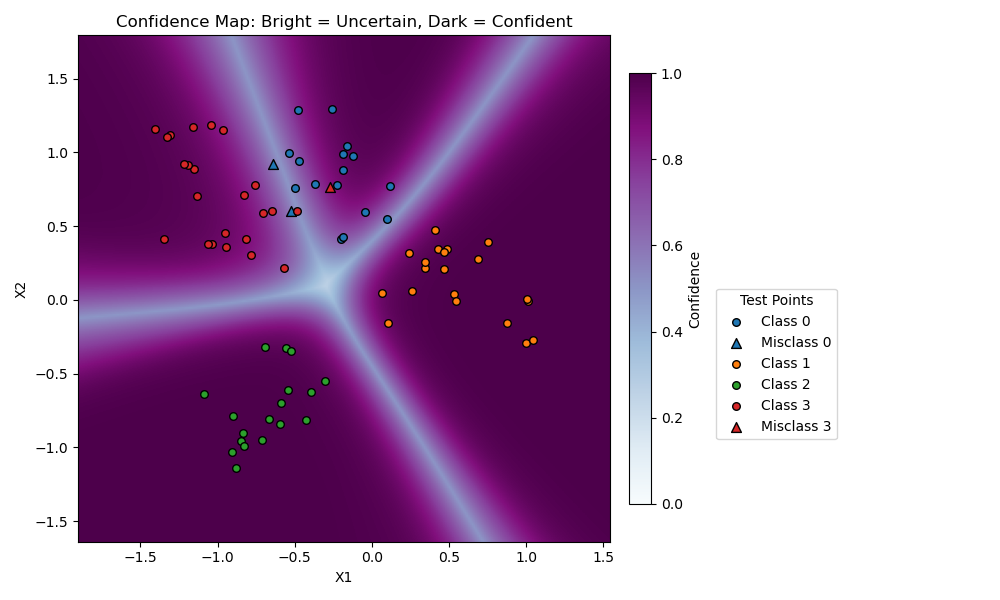
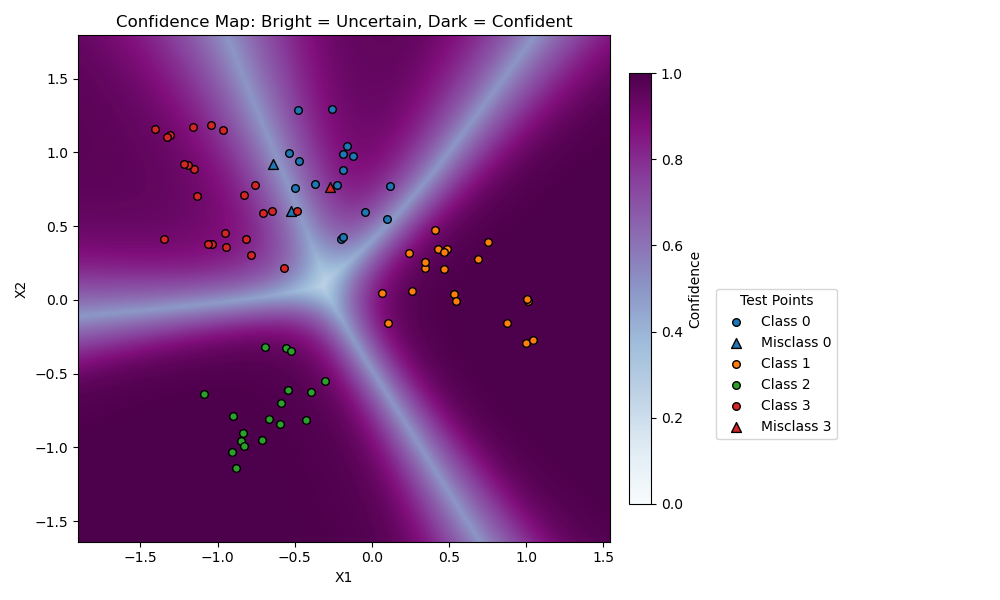
added most of the metrics, missing OOD AUROC

diff --git a/main.py b/main.py
@@ -8,7 +8,7 @@ from torch.utils.data import DataLoader
 import numpy as np
 from plots import plot_2D_decision_boundary_MAP, plot_2D_decision_boundary_confidence, plot_2D_decision_boundary_entropy, plot_model, plot_bayesian_model_samples, plot_bayesian_model_predictions
 import os
-from utils import sample_from_posterior, save_metrics
+from utils import sample_from_posterior, save_metrics_classification, save_metrics_regression
 
 SINE_MODEL_PATH="results/models/sine_net.pth"
 MNIST_MODEL_PATH="results/models/mnist_fc.pth"
@@ -32,7 +32,7 @@ def lla_inference(model, x_train, y_train):
     y_test_pred = model(x_test).detach().numpy()  # MAP model predictions
     mean_pred, var_pred = sinemodel.bayesian_prediction(model, theta_samples, x_test)
 
-    metrics = save_metrics(y_test_pred, mean_pred, var_pred, y_test_true, "results/metrics/sine_lla_metrics.json")
+    metrics = save_metrics_regression(y_test_pred, mean_pred, var_pred, y_test_true, "results/metrics/sine_lla_metrics.json")
     rmse_map = metrics["MAP"]["RMSE"]
     rmse_bayesian = metrics["Bayesian"]["RMSE"]
 
@@ -62,10 +62,14 @@ def lla_inference_2D_classifier(model, train_dataset, test_dataset):
     
     x_test = test_dataset[:][0]
     y_test_true = test_dataset[:][1]
-    mean_pred, var_pred = fcmodel.bayesian_prediction(model, theta_samples, x_test)
+    y_test_pred_map = torch.nn.functional.softmax(model(x_test), dim=1).detach().numpy()
+    mean_probs_pred, var_pred = fcmodel.bayesian_prediction(model, theta_samples, x_test)
+    y_test_pred = np.argmax(mean_probs_pred, axis=1)
+    
+    metrics = save_metrics_classification(y_test_pred_map, y_test_pred, mean_probs_pred, var_pred, y_test_true.detach().numpy(), "results/metrics/2Dclassifier_lla_metrics.json")
 
-    plot_2D_decision_boundary_entropy(model, theta_samples, x_test, y_test_true, mean_pred)
-    plot_2D_decision_boundary_confidence(model, theta_samples, x_test, y_test_true, mean_pred)
+    plot_2D_decision_boundary_entropy(model, theta_samples, x_test, y_test_true, mean_probs_pred)
+    plot_2D_decision_boundary_confidence(model, theta_samples, x_test, y_test_true, mean_probs_pred)
 
     # Restore original MAP parameters
     torch.nn.utils.vector_to_parameters(original_params, model.parameters())
@@ -90,7 +94,7 @@ def projected_posterior_inference(model, x_train, y_train):
     y_test_pred = model(x_test).detach().numpy()  # MAP model predictions
     mean_pred, var_pred = sinemodel.bayesian_prediction(model, theta_samples, x_test)
 
-    metrics = save_metrics(y_test_pred, mean_pred, var_pred, y_test_true, "results/metrics/sine_projected_posterior_metrics.json")
+    metrics = save_metrics_regression(y_test_pred, mean_pred, var_pred, y_test_true, "results/metrics/sine_projected_posterior_metrics.json")
     rmse_map = metrics["MAP"]["RMSE"]
     rmse_bayesian = metrics["Bayesian"]["RMSE"]
 
@@ -120,10 +124,14 @@ def projected_posterior_inference_2D_classifier(model, train_dataset, test_datas
     
     x_test = test_dataset[:][0]
     y_test_true = test_dataset[:][1]
-    mean_pred, var_pred = fcmodel.bayesian_prediction(model, theta_samples, x_test)
+    y_test_pred_map = torch.nn.functional.softmax(model(x_test), dim=1).detach().numpy()
+    mean_probs_pred, var_pred = fcmodel.bayesian_prediction(model, theta_samples, x_test)
+    y_test_pred = np.argmax(mean_probs_pred, axis=1)
+    
+    metrics = save_metrics_classification(y_test_pred_map, y_test_pred, mean_probs_pred, var_pred, y_test_true.detach().numpy(), "results/metrics/2Dclassifier_proj_metrics.json")
 
-    plot_2D_decision_boundary_entropy(model, theta_samples, x_test, y_test_true, mean_pred)
-    plot_2D_decision_boundary_confidence(model, theta_samples, x_test, y_test_true, mean_pred)
+    plot_2D_decision_boundary_entropy(model, theta_samples, x_test, y_test_true, mean_probs_pred)
+    plot_2D_decision_boundary_confidence(model, theta_samples, x_test, y_test_true, mean_probs_pred)
 
     # Restore original MAP parameters
     torch.nn.utils.vector_to_parameters(original_params, model.parameters())
@@ -148,7 +156,7 @@ def loss_posterior_inference(model, x_train, y_train):
     y_test_pred = model(x_test).detach().numpy()  # MAP model predictions
     mean_pred, var_pred = sinemodel.bayesian_prediction(model, theta_samples, x_test)
 
-    metrics = save_metrics(y_test_pred, mean_pred, var_pred, y_test_true, "results/metrics/sine_loss_posterior_metrics.json")
+    metrics = save_metrics_regression(y_test_pred, mean_pred, var_pred, y_test_true, "results/metrics/sine_loss_posterior_metrics.json")
     rmse_map = metrics["MAP"]["RMSE"]
     rmse_bayesian = metrics["Bayesian"]["RMSE"]
 
@@ -191,8 +199,8 @@ def run_2d_classification_experiment():
     model.eval()
     #plot_2D_decision_boundary_MAP(model, test_dataset)
 
-    #lla_inference_2D_classifier(model, train_dataset, test_dataset)
-    projected_posterior_inference_2D_classifier(model, train_dataset, test_dataset)
+    lla_inference_2D_classifier(model, train_dataset, test_dataset)
+    #projected_posterior_inference_2D_classifier(model, train_dataset, test_dataset)
 
 
 if __name__ == "__main__":

diff --git a/metrics.py b/metrics.py
@@ -1,11 +1,15 @@
 import numpy as np
 from scipy.stats import norm
-from sklearn.metrics import root_mean_squared_error
+from sklearn.metrics import root_mean_squared_error, roc_auc_score
 
 def compute_rmse(y_true, y_pred):
     """Compute Root Mean Squared Error (RMSE) using sklearn."""
     return root_mean_squared_error(y_true, y_pred)
 
+def compute_accuracy(y_true, y_pred_probs):
+    """Compute classification accuracy."""
+    y_pred = np.argmax(y_pred_probs, axis=1)
+    return np.mean(y_true == y_pred)
 
 def compute_regression_nll(mu, sigma, y_true, eps=1e-6):
     """
@@ -23,6 +27,11 @@ def compute_regression_nll(mu, sigma, y_true, eps=1e-6):
     sigma = np.clip(sigma, a_min=eps, a_max=None)  # Avoid zero std
     nll = 0.5 * np.log(2 * np.pi * sigma**2) + ((y_true - mu) ** 2) / (2 * sigma**2)
     return np.mean(nll)
+
+def compute_classification_nll(y_true, y_pred_probs, eps=1e-8):
+    """NLL for classification with predicted probabilities"""
+    log_probs = np.log(np.clip(y_pred_probs[np.arange(len(y_true)), y_true], eps, 1.0))
+    return -np.mean(log_probs)
 
 
 def compute_sharpness(sigma):
@@ -94,3 +103,99 @@ def compute_regression_ece(mu, sigma, y_true, alphas=None):
     ece /= len(alphas)
     return ece, list(zip(alphas, coverage_list))
 
+def compute_classification_ece_mce(y_true, y_pred_probs, n_bins=15):
+    """
+    Compute both ECE and MCE (Expected and Maximum Calibration Error).
+    
+    Returns:
+    - ece: float
+    - mce: float
+    """
+    confidences = np.max(y_pred_probs, axis=1)
+    predictions = np.argmax(y_pred_probs, axis=1)
+    accuracies = (predictions == y_true)
+    
+    bin_boundaries = np.linspace(0.0, 1.0, n_bins + 1)
+    ece = 0.0
+    mce = 0.0
+
+    for i in range(n_bins):
+        lower, upper = bin_boundaries[i], bin_boundaries[i + 1]
+        mask = (confidences > lower) & (confidences <= upper)
+        if np.any(mask):
+            bin_acc = np.mean(accuracies[mask])
+            bin_conf = np.mean(confidences[mask])
+            gap = abs(bin_conf - bin_acc)
+            ece += gap * np.sum(mask) / len(y_true)
+            mce = max(mce, gap)
+    
+    return ece, mce
+
+
+def compute_brier_score(y_true, y_pred_probs):
+    """
+    Compute Brier Score for multiclass classification.
+
+    Parameters:
+    - y_true: (N,) int array of true class indices
+    - y_pred_probs: (N, C) array of predicted class probabilities
+
+    Returns:
+    - brier: float, mean Brier score
+    """
+    N, C = y_pred_probs.shape
+    y_true_onehot = np.zeros_like(y_pred_probs)
+    y_true_onehot[np.arange(N), y_true] = 1
+    return np.mean(np.sum((y_pred_probs - y_true_onehot) ** 2, axis=1))
+
+def compute_predictive_entropy(y_pred_probs, eps=1e-8):
+    """
+    Compute predictive entropy for each sample.
+    
+    Parameters:
+    - y_pred_probs: (N, C) array of predicted class probabilities
+
+    Returns:
+    - entropies: (N,) array of entropy values per sample
+    """
+    clipped_probs = np.clip(y_pred_probs, eps, 1.0)
+    entropies = -np.sum(clipped_probs * np.log(clipped_probs), axis=1)
+    return np.mean(entropies)
+
+def compute_confidence(y_pred_probs):
+    """
+    Compute average confidence of predictions.
+    
+    Parameters:
+    - y_pred_probs: (N, C) array of predicted class probabilities
+    
+    Returns:
+    - confidence: float, average max predicted probability across samples
+    """
+    confidences = np.max(y_pred_probs, axis=1)  # confidence per sample
+    return np.mean(confidences)
+
+def compute_multiclass_auroc(y_true, y_pred_probs):
+    """
+    Compute per-class AUROC using one-vs-rest strategy.
+
+    Parameters:
+    - y_true: (N,) array of int true labels
+    - y_pred_probs: (N, C) array of predicted class probabilities
+
+    Returns:
+    - auroc_per_class: dict[class_index] = AUROC
+    """
+    N, C = y_pred_probs.shape
+    y_true_onehot = np.zeros_like(y_pred_probs)
+    y_true_onehot[np.arange(N), y_true] = 1
+
+    auroc_per_class = {}
+    for c in range(C):
+        try:
+            score = roc_auc_score(y_true_onehot[:, c], y_pred_probs[:, c])
+        except ValueError:
+            score = float('nan')  # Handles class imbalance edge cases
+        auroc_per_class[c] = score
+
+    return auroc_per_class

diff --git a/utils.py b/utils.py
@@ -1,9 +1,8 @@
 import json
 import numpy as np
 import torch
-import torch.nn.functional as F
 from metrics import (
-    compute_coverage, compute_regression_ece, compute_regression_nll, compute_rmse, compute_sharpness
+    compute_accuracy, compute_brier_score, compute_classification_ece_mce, compute_classification_nll, compute_confidence, compute_coverage, compute_multiclass_auroc, compute_predictive_entropy, compute_regression_ece, compute_regression_nll, compute_rmse, compute_sharpness
 )
 
 def compute_model_jacobian_params(model, x_train):
@@ -169,7 +168,7 @@ def disassemble_data_loader(data_loader):
     
     return x_train, y_train
 
-def save_metrics(y_test_pred, mean_pred, var_pred, y_test_true, path):
+def save_metrics_regression(y_test_pred, mean_pred, var_pred, y_test_true, path):
     # MAP metrics
     rmse_map = compute_rmse(y_test_true, y_test_pred)
 
@@ -202,6 +201,72 @@ def save_metrics(y_test_pred, mean_pred, var_pred, y_test_true, path):
                     "empirical_coverage": float(cov)
                 }
                 for alpha, cov in coverage_per_alpha
+            ]
+        }
+    }
+    with open(path, "w") as f:
+        json.dump(metrics, f, indent=4)
+
+    return metrics
+
+def save_metrics_classification(y_test_pred_map, y_test_pred, mean_probs_pred, var_pred, y_test_true, path):
+    # MAP metrics
+    acc_map = compute_accuracy(y_test_true, y_test_pred_map)
+    nll_map = compute_classification_nll(y_test_true, y_test_pred_map)
+    ece_map, mce_map = compute_classification_ece_mce(y_test_true, y_test_pred_map, n_bins=10)
+    brier_score_map = compute_brier_score(y_test_true, y_test_pred_map)
+    confidence_map = compute_confidence(y_test_pred_map)
+    predictive_entropy_map = compute_predictive_entropy(y_test_pred_map)
+    auroc_per_class_map = compute_multiclass_auroc(y_test_true, y_test_pred_map)
+
+    # Bayesian model metrics
+    acc_bayesian = compute_accuracy(y_test_true, mean_probs_pred)
+    nll_bayesian = compute_classification_nll(y_test_true, mean_probs_pred)
+    ece_bayesian, mce_bayesian = compute_classification_ece_mce(y_test_true, mean_probs_pred, n_bins=10)
+    brier_score_bayesian = compute_brier_score(y_test_true, mean_probs_pred)
+    confidence_bayesian = compute_confidence(mean_probs_pred)
+    predictive_entropy_bayesian = compute_predictive_entropy(mean_probs_pred)
+    aurco_per_class_bayesian = compute_multiclass_auroc(y_test_true, mean_probs_pred)
+
+    print(f"Accuracy (MAP Model): {acc_map:.4f}")
+    print(f"Accuracy (Bayesian Mean Model): {acc_bayesian:.4f}")
+    print(f"NLL (Bayesian Model): {nll_bayesian:.4f}")
+    print(f"NLL (MAP Model): {nll_map:.4f}")
+    print(f"ECE (Bayesian Model): {ece_bayesian:.4f}")
+    print(f"ECE (MAP Model): {ece_map:.4f}")
+
+    # Save the metrics
+    metrics = {
+        "MAP": {
+            "Accuracy": float(acc_map),
+            "NLL": float(nll_map),
+            "ECE": float(ece_map),
+            "MCE": float(mce_map),
+            "Brier Score": float(brier_score_map),
+            "Confidence": float(confidence_map),
+            "Predictive Entropy": float(predictive_entropy_map),
+            "AUROC per class": [
+                {
+                    "class": str(key),
+                    "auroc": float(value)
+                }
+                for key, value in auroc_per_class_map.items()
+            ]
+        },
+        "Bayesian": {
+            "Accuracy": float(acc_bayesian),
+            "NLL": float(nll_bayesian),
+            "ECE": float(ece_bayesian),
+            "MCE": float(mce_bayesian),
+            "Brier Score": float(brier_score_bayesian),
+            "Confidence": float(confidence_bayesian),
+            "Predictive Entropy": float(predictive_entropy_bayesian),
+            "AUROC per class": [
+                {
+                    "class": str(key),
+                    "auroc": float(value)
+                }
+                for key, value in aurco_per_class_bayesian.items()
             ]
         }
     }

diff --git a/models/fcmodel.py b/models/fcmodel.py
@@ -20,7 +20,7 @@ class FC_2D_Net(nn.Module):
         x = self.fc3(x)  # Raw logits
         return x
     
-def compute_q_lla(model, x_train, y_train, alpha=3.0):
+def compute_q_lla(model, x_train, y_train, alpha=2.0):
     """
     Computes the q_LLA posterior for a trained classifier model.
 
